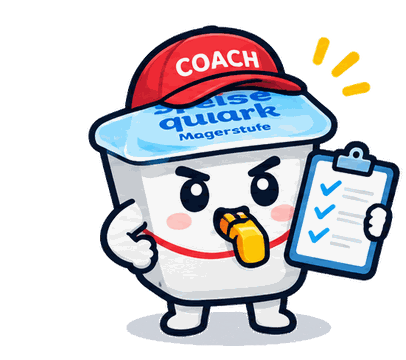
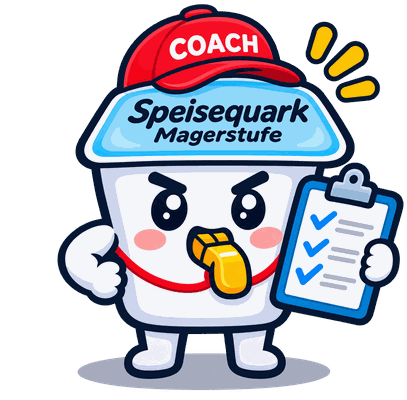
v266: Magerquark – neue Quarkbecher aus fünf Einzelvorlagen
Vorlagen (1254 px, transparent, ohne Markennamen) in app/design/quark-vorlagen,
Becher am Deckeltext ausgerichtet; Cache v6, damit die neuen Bilder sofort kommen.

Claude-Session: https://claude.ai/code/session_01TMv9R87UXoMUEZ67peoWfw

diff --git a/index.html b/index.html
@@ -820,11 +820,11 @@ button, select, input { touch-action: manipulation } body:not(.reporting) { touc
 [data-skin="quark"] .fmhead input:not([type="checkbox"]) { background: transparent }
 [data-skin="quark"] .cupboard { background: var(--qtint); border-color: #e0e8f7 }
 /* v265 (Konzept des Nutzers „Magerquark-Maskottchen“, Vorlage aus ChatGPT): je Reiter ein Quarkbecher über der Reiterleiste –
-   fertige Bilder maskottchen/quark-*.png (aus der Vorlage ausgeschnitten, Marken-Etikett entfernt; app/design/quark-maskottchen.py).
+   fertige Bilder maskottchen/quark-*.png (v266: aus fünf Einzelvorlagen app/design/quark-vorlagen/, ausgerichtet mit app/design/quark-maskottchen.py).
    Platz zwischen Glocke und Speicher-Hinweis; in der iPhone-App (KI-Knopf, .haski, Hinweis „gespeichert“ entfällt) mittig.
    Bei einem Speicher-Fehler tritt der Becher zurück, damit die Meldung lesbar bleibt. Einstellungen ohne Becher. */
 [data-skin="quark"] .top { position: relative; min-height: 84px }
-[data-skin="quark"] .top::after { content: ""; position: absolute; left: 100px; top: -12px; width: 122px; height: 108px; pointer-events: none;
+[data-skin="quark"] .top::after { content: ""; position: absolute; left: 100px; top: -12px; width: 110px; height: 108px; pointer-events: none;
   background: url("maskottchen/quark-home.png") no-repeat center / contain }
 [data-skin="quark"] .top.haski::after { left: 50%; transform: translateX(-50%) }
 [data-skin="quark"][data-tab="train"] .top::after { background-image: url("maskottchen/quark-train.png") }
@@ -1038,8 +1038,9 @@ body.ndragging, body.ndragging * { -webkit-user-select: none; user-select: none;
   /* Neuerungen: Bei jeder Änderung an der App APP_VERSION um 1 erhöhen und unten einen Eintrag mit dem
      betroffenen Reiter (train, prog, body, plan, data) ergänzen. Nach einem Update zeigt die App die neuen
      Einträge einmal an und markiert die Reiter bis zum nächsten Öffnen mit einem gelben Punkt. */
-  var APP_VERSION = 265; window.TL_VER = APP_VERSION;
+  var APP_VERSION = 266; window.TL_VER = APP_VERSION;
   var CHANGES = [
+    { v: 266, tab: "home", text: "Design „Magerquark“: Die Quarkbecher sind neu – größer gezeichnet, mit sauberen Konturen und richtig geschriebenem Deckel, in allen Reitern derselbe Becher an derselben Stelle." },
     { v: 265, tab: "home", text: "Design „Magerquark“: Je Reiter steht jetzt ein kleiner Quarkbecher über der Leiste – mit Shake, Reis und Brokkoli, beim Bizeps, mit Pokal, mit Maßband und als Coach." },
     { v: 264, tab: "home", text: "Design „Sky Blue“: Die Küken sind neu gezeichnet – rundlicher und knuffiger, mit großen glänzenden Augen, rosigen Wangen und weichen Schattierungen. In allen Reitern ist es jetzt dieselbe Figur, und sie ist etwas größer." },
     { v: 263, tab: "home", text: "Neues Design „Sky Blue“: ruhiges Hellblau, klare Schrift, blaue Diagramme – und je Reiter ein Küken: Shake mit Reis und Brokkoli, Bizeps, Pokal, Maßband und Coach mit Pfeife. Es ersetzt „Gym Kawaii“." },
@@ -2111,7 +2112,7 @@ body.ndragging, body.ndragging * { -webkit-user-select: none; user-select: none;
      (Start: alle 30 min, Rückkehr in die App: alle 5 min), erscheint der Hinweis #upd in der Mitte (seit v85). */
   /* Seit v100 (Fable-Prüfung): Update leert den Cache nicht mehr (sonst fehlten offline zxing/Körperkarte), sondern legt die neue
      index.html vorher in den Cache. Ohne Netz kein Neuladen, damit keine leere Seite entsteht. SWC muss zu CACHE in sw.js passen. */
-  var SWC = "trainingslog-v5", SWF = ["./", "./index.html", "./manifest.webmanifest", "./icon-192.png", "./icon-512.png", "./apple-touch-icon.png", "./inter.woff2", "./space-grotesk.woff2", "./zxing.min.js", "./koerperkarte.png", "./koerperkarte-licht.jpg", "./maskottchen/quark-home.png", "./maskottchen/quark-train.png", "./maskottchen/quark-prog.png", "./maskottchen/quark-body.png", "./maskottchen/quark-plan.png"];
+  var SWC = "trainingslog-v6", SWF = ["./", "./index.html", "./manifest.webmanifest", "./icon-192.png", "./icon-512.png", "./apple-touch-icon.png", "./inter.woff2", "./space-grotesk.woff2", "./zxing.min.js", "./koerperkarte.png", "./koerperkarte-licht.jpg", "./maskottchen/quark-home.png", "./maskottchen/quark-train.png", "./maskottchen/quark-prog.png", "./maskottchen/quark-body.png", "./maskottchen/quark-plan.png"];
   function cacheHeal() { /* fehlende Offline-Dateien nachladen (z. B. nach altem Update mit Cache-Leeren) */
     if (!window.caches || navigator.onLine === false || location.protocol === "file:" || !("serviceWorker" in navigator)) return;
     caches.open(SWC).then(function (c) { SWF.forEach(function (f) { c.match(f, { ignoreSearch: true }).then(function (h) { if (!h) c.add(f).catch(function () {}); }); }); }).catch(function () {});

diff --git a/sw.js b/sw.js
@@ -1,7 +1,7 @@
 /* Trainingslog – Service Worker: macht die App offline nutzbar.
    Antwortet aus dem Cache und holt im Hintergrund die neue Fassung. Anfragen mit dem Parameter „fresh“
    (Versionsprüfung der App) gehen direkt ans Netz. CACHE nur ändern, wenn sich FILES ändert – dann auch SWC/SWF in index.html anpassen (cacheHeal). */
-const CACHE = "trainingslog-v5";
+const CACHE = "trainingslog-v6";
 const FILES = [
   "./",
   "./index.html",

diff --git a/app/design/quark-maskottchen.py b/app/design/quark-maskottchen.py
@@ -1,95 +1,51 @@
-# Design „Magerquark“: fünf Quark-Maskottchen je Reiter (seit v265).
-# Quelle: Vorlage des Nutzers (aus ChatGPT, „Fünf Quark-Helden“, 2172 × 724 px, fünf Figuren nebeneinander mit Beschriftung).
-# Die Vorlage liegt NICHT im Repo – sie trägt den Markennamen eines Händlers. Dieses Skript schneidet die Figuren aus,
-# entfernt das rote Marken-Etikett auf dem Deckel und schreibt fünf gleich große PNGs mit transparentem Hintergrund:
-#   python3 app/design/quark-maskottchen.py <vorlage.png> maskottchen/
-# Ergebnis: maskottchen/quark-{home,train,prog,body,plan}.png (406 × 360 px, 256 Farben, je ~20–30 KB),
-# eingebunden in index.html über [data-skin="quark"] … .top::after, offline über sw.js (FILES) und SWF in index.html.
+# Design „Magerquark“: fünf Quark-Maskottchen je Reiter (seit v265, Vorlagen seit v266 einzeln).
+# Quelle: fünf Einzelbilder des Nutzers aus ChatGPT (1254 × 1254 px, transparent, ohne Markennamen) in
+# app/design/quark-vorlagen/{home,train,prog,body,plan}.png. Dieses Skript richtet die Becher aneinander aus
+# (Mitte und Unterkante des Deckeltexts „Speisequark Magerstufe“), schneidet alle fünf auf dieselbe Fläche zu und
+# schreibt kleine PNGs mit 256 Farben:
+#   python3 app/design/quark-maskottchen.py app/design/quark-vorlagen maskottchen
+# Ergebnis: maskottchen/quark-{home,train,prog,body,plan}.png, eingebunden in index.html über
+# [data-skin="quark"] … .top::after, offline über sw.js (FILES) und SWF in index.html, iPhone-App über app/copy-web.mjs.
 import sys
 import numpy as np
 from PIL import Image
 from scipy import ndimage as ndi
 
 NAMES = ["home", "train", "prog", "body", "plan"]
-BOUNDS = [455, 890, 1318, 1742]       # Trennlinien zwischen den Figuren (x in der Vorlage)
-LABEL_Y = 558                          # ab hier stehen die Beschriftungen
-OUT_H = 360
+OUT_H = 400          # Bildhöhe in px (Anzeige 108 px hoch → gut 3,5-fach für Retina)
+PAD = 12             # Rand um die gemeinsame Fläche (in Vorlagen-px)
 
-def cut(src):
-    H, W, _ = src.shape
-    mn, mx = src.min(axis=2), src.max(axis=2)
-    cand = (mn >= 185) & ((mx - mn) <= 28)                 # heller, ungesättigter Grund (inkl. Bodenschatten)
-    cand[LABEL_Y:] = True
-    R = 3
-    barrier = ndi.binary_dilation(mn < 150, structure=np.ones((2 * R + 1, 2 * R + 1)))   # Lücken in Konturen schließen
-    lab, _ = ndi.label(cand & ~barrier)
-    border = set(np.unique(np.concatenate([lab[0], lab[-1], lab[:, 0], lab[:, -1]]))) - {0}
-    bg = np.isin(lab, list(border))
-    bg = ndi.binary_dilation(bg, iterations=R + 1, mask=cand)
-    a = np.ones((H, W), np.float32)
-    ab = np.clip(1 - mn / 252.0, 0, 1); ab[ab < 0.035] = 0      # aus Weiß herausrechnen → weicher Schatten
-    a[bg] = ab[bg]
-    rgb = src.copy()
-    m = bg & (a > 0)
-    for c in range(3):
-        ch = rgb[..., c]; ch[m] = np.clip((ch[m] - (1 - a[m]) * 255) / a[m], 0, 255)
-    rgb[bg & (a == 0)] = 0
-    a[LABEL_Y:] = 0
-    fg = a > 0.02
-    lab2, n2 = ndi.label(fg, structure=np.ones((3, 3)))
-    fig = np.full((H, W), -1, np.int8)
-    for i, (cy, cx) in enumerate(ndi.center_of_mass(fg, lab2, range(1, n2 + 1)), 1):
-        fig[lab2 == i] = int(np.searchsorted(BOUNDS, cx))
-    return rgb, a, fig
+def anchor(a):
+    """Mitte (x) und Unterkante (y) des dunklen Deckeltexts – bei allen fünf Bechern gleich groß."""
+    r, g, b, al = a[..., 0], a[..., 1], a[..., 2], a[..., 3]
+    lid = (b > 220) & (r < 190) & (g > 170) & (al > 200)
+    lb, k = ndi.label(lid)
+    big = lb == (np.argmax(ndi.sum(lid, lb, range(1, k + 1))) + 1)
+    txt = ndi.binary_fill_holes(big) & ~big & (r < 90) & (g < 90) & (b < 130)
+    ty, tx = np.where(txt)
+    return (tx.min() + tx.max()) / 2, ty.max(), tx.max() - tx.min()
 
-def remove_label(rgb, fig):
-    """Rotes Marken-Etikett oben auf dem Deckel durch die Deckelfarbe daneben ersetzen (Plan: von der Kappe verdeckt)."""
-    img = np.clip(rgb, 0, 255).astype(np.uint8)
-    out = img.astype(np.float32).copy()
-    r, g, b = rgb[..., 0], rgb[..., 1], rgb[..., 2]
-    red = (r > 160) & (g < 90) & (b < 90) & (np.arange(rgb.shape[0])[:, None] < 220)
-    for k in range(4):
-        m = red & (fig == k)
-        lb, n = ndi.label(ndi.binary_dilation(m, iterations=3))
-        big = np.argmax(ndi.sum(m, lb, range(1, n + 1))) + 1
-        ys, xs = np.where(m & (lb == big))
-        Y0, Y1, X0, X1 = ys.min() - 3, ys.max() + 4, xs.min() - 4, xs.max() + 5
-        for y in range(Y0, Y1):
-            L = np.median(img[y, X0 - 10:X0 - 3], axis=0); Rr = np.median(img[y, X1 + 3:X1 + 10], axis=0)
-            t = np.linspace(0, 1, X1 - X0)[:, None]
-            out[y, X0:X1] = L * (1 - t) + Rr * t
-        blk = np.stack([ndi.gaussian_filter(out[..., c], 1.6) for c in range(3)], axis=-1)
-        out[Y0:Y1, X0:X1] = blk[Y0:Y1, X0:X1]
-    return np.clip(out, 0, 255)
-
-def export(rgb, a, fig, outdir):
-    H, W = a.shape
-    r, g, b = rgb[..., 0], rgb[..., 1], rgb[..., 2]
-    yy = np.arange(H)[:, None]
-    lid = (b > 225) & (r < 205) & (r > 120) & (g > 175) & (yy > 120) & (yy < 250)
-    info = []
-    for k in range(5):
-        ys, xs = np.where(fig == k)
-        lb, n = ndi.label(lid & (fig == k))
-        big = np.argmax(ndi.sum(lid & (fig == k), lb, range(1, n + 1))) + 1
-        lx = np.where(lb == big)[1]
-        info.append(((lx.min() + lx.max()) // 2, xs.min(), xs.max()))    # Becher immer an derselben Stelle
-    L = max(c - x0 for c, x0, x1 in info) + 6; R = max(x1 - c for c, x0, x1 in info) + 6
-    Y0, Y1 = 68, 556
-    CW, CH = L + R, Y1 - Y0
-    for k, (c, x0, x1) in enumerate(info):
-        rgba = np.zeros((H, W, 4), np.uint8)
-        rgba[..., :3] = rgb.astype(np.uint8); rgba[..., 3] = (a * (fig == k) * 255).astype(np.uint8)
+def main(src, out):
+    imgs = [np.array(Image.open(f"{src}/{n}.png").convert("RGBA")) for n in NAMES]
+    anc = [anchor(a.astype(int)) for a in imgs]
+    for n, (cx, by, w) in zip(NAMES, anc):
+        print(f"{n}: Textmitte x {cx:.0f}, Unterkante y {by}, Breite {w}")
+    # Ausdehnung jeder Figur relativ zum Anker → gemeinsame Fläche
+    ext = []
+    for a, (cx, by, w) in zip(imgs, anc):
+        ys, xs = np.where(a[..., 3] > 8)
+        ext.append((cx - xs.min(), xs.max() - cx, by - ys.min(), ys.max() - by))
+    L = max(e[0] for e in ext) + PAD; R = max(e[1] for e in ext) + PAD
+    T = max(e[2] for e in ext) + PAD; B = max(e[3] for e in ext) + PAD
+    CW, CH = int(round(L + R)), int(round(T + B))
+    for n, a, (cx, by, w) in zip(NAMES, imgs, anc):
         can = Image.new("RGBA", (CW, CH), (0, 0, 0, 0))
-        left = max(0, c - L)
-        can.paste(Image.fromarray(rgba[Y0:Y1, left:c + R], "RGBA"), (L - (c - left), 0))
+        can.paste(Image.fromarray(a, "RGBA"), (int(round(L - cx)), int(round(T - by))))
         im = can.convert("RGBa").resize((round(CW * OUT_H / CH), OUT_H), Image.LANCZOS).convert("RGBA")
-        im.quantize(colors=256, method=Image.Quantize.FASTOCTREE, dither=Image.Dither.NONE).save(f"{outdir}/quark-{NAMES[k]}.png", optimize=True)
+        im.quantize(colors=256, method=Image.Quantize.FASTOCTREE, dither=Image.Dither.NONE).save(f"{out}/quark-{n}.png", optimize=True)
+    print(f"Fläche {CW} × {CH} → {round(CW * OUT_H / CH)} × {OUT_H} px")
 
 if __name__ == "__main__":
     if len(sys.argv) != 3:
-        sys.exit("Aufruf: python3 app/design/quark-maskottchen.py <vorlage.png> maskottchen/")
-    src = np.array(Image.open(sys.argv[1]).convert("RGB")).astype(np.float32)
-    rgb, a, fig = cut(src)
-    rgb = remove_label(rgb, fig)
-    export(rgb, a, fig, sys.argv[2].rstrip("/"))
+        sys.exit("Aufruf: python3 app/design/quark-maskottchen.py app/design/quark-vorlagen maskottchen")
+    main(sys.argv[1], sys.argv[2].rstrip("/"))

diff --git a/VERLAUF.md b/VERLAUF.md
@@ -291,3 +291,4 @@ Repo ist öffentlich: hier nur technische Entscheidungen, keine persönlichen Da
 - v263 (Konzept des Nutzers „Sky Blue & Gym Chicks“, Antworten „1A, Kawaii ersetzen, Rest wie Claude meint“): Design `data-skin="sky"` (hell, in `SKINS` mit "light") ersetzt „Gym Kawaii“; gespeichertes "kawaii" wird im Kopf-Skript zu "sky". Farben nach Konzept (#f4f8fc, #fff, Primärblau #1272c2 statt #1683d8 für Kontrast mit weißer Schrift, #e7f2fc, Überschriften #19324b, Text #263746, #68798a, #dce6f0), Überschriften in Inter. Je Reiter eine selbst gezeichnete Küken-Szene (`app/design/sky-gen.py`): Ernährung Shake mit Gesicht + Reisschüssel + Brokkoli mit Bizeps, Training Bizeps-Pose, Fortschritt Pokal + Wachstumskurve, Körper gelbes Maßband, Plan Coach-Cap/Pfeife/Klemmbrett; keine Figur im Zahnradmenü und keine großen Figuren im Inhalt. Diagramme: Phasenfarben in `.chart`/`.wchart` hellblau (Korridore), Gitter grau; Tabellen ruhige Linien. `kueken-gen.py` entfernt.
 - v264 (Nutzer: Küken sehen aus wie flache Vektor-Cliparts, gewünscht hochwertiger Kawaii-/Chibi-Stil, alle fünf als dieselbe Figur; danach „du darfst die ruhig etwas größer machen“): Sky-Blue-Maskottchen neu gezeichnet – eine Figur (Mochi-Körper, Verläufe statt flacher Farben, warmbraune Kontur #7a4a2e, große Augen mit Lichtpunkten, verlaufende Wangen, kleine Flügel/Füße) in fünf Posen, Gegenstände mit Gesicht und Interaktion. `.top::after` 196×80 → 220×108 px, `[data-skin="sky"] .top` min-height 58 → 84 px (Einstellungen bleibt 58, dort kein Küken). Generator `app/design/sky-gen.py` neu geschrieben, schreibt mit `--apply index.html` die fünf Bilder in die CSS-Regeln (nur benutzte Verläufe, Zahlen gerundet, ohne Zeilenumbrüche), `--preview` für eine Vorschau. Sonst keine Designänderung.
 - v265 (Konzept des Nutzers „Magerquark-Maskottchen“ mit fertiger Vorlage aus ChatGPT, „Verwende die fertigen Bilddateien direkt“): Design `data-skin="quark"` bekommt je Reiter einen Quarkbecher über der Reiterleiste. Bilder `maskottchen/quark-{home,train,prog,body,plan}.png` (406×360 px, 256 Farben, je 20–28 KB, transparent, Becher in allen fünf an derselben Stelle) mit `app/design/quark-maskottchen.py` aus der Vorlage ausgeschnitten (Grund per Flutfüllung mit geschlossenen Konturlücken, Bodenschatten halbtransparent aus Weiß herausgerechnet); rotes Marken-Etikett auf dem Deckel durch Deckelfarbe ersetzt (Vorlage wegen Markenname nicht im Repo). CSS: `[data-skin="quark"] .top` min-height 84 px, `.top::after` 122×108 px, links 100 px (zwischen Glocke und Speicher-Hinweis), mit KI-Knopf (`.haski`) mittig, ≤ 380 px kleiner; ausgeblendet bei `.sync.err` (`:has`) und in den Einstellungen. Offline: Bilder in `sw.js` FILES (CACHE v4 → v5), `SWC`/`SWF` in index.html, `app/copy-web.mjs` (Ordner `www/maskottchen`).
+- v266 (neue Vorlagen des Nutzers aus ChatGPT, fünf Einzelbilder 1254 × 1254 px, transparent, ohne Markennamen, nach Claudes Vorgaben): Quark-Maskottchen ersetzt. Vorlagen in `app/design/quark-vorlagen/{home,train,prog,body,plan}.png`; `app/design/quark-maskottchen.py` neu: richtet die Becher an Mitte und Unterkante des Deckeltexts aus, gemeinsame Fläche, 407 × 400 px, 256 Farben (je 20–28 KB). `.top::after` Breite 122 → 110 px. Dateinamen gleich, daher `CACHE`/`SWC` v5 → v6, damit keine alten Bilder aus dem Cache kommen.

diff --git a/AGENTS.md b/AGENTS.md
@@ -2,7 +2,7 @@
 
 Diese Datei ist der gemeinsame Stand für alle KI-Assistenten, die an diesem Repo arbeiten (Claude, ChatGPT/Codex). **Zuerst lesen, bei jeder Änderung mitpflegen.** Kurz halten: nur der aktuelle Stand, keine Geschichte (die steht in `VERLAUF.md`). Das Repo ist öffentlich – hier nichts Persönliches eintragen.
 
-**Stand:** v265 (22.11.2026)
+**Stand:** v266 (22.11.2026)
 
 ## Vor jeder Arbeit
 1. `git pull` und `git log --oneline -15`: Hat der andere Assistent seit dem letzten Mal etwas geändert? Dann diese Änderungen zuerst durchsehen und Auffälligkeiten dem Besitzer melden, nicht ungefragt im fremden Bereich umbauen.
@@ -54,7 +54,7 @@ Diese Datei ist der gemeinsame Stand für alle KI-Assistenten, die an diesem Rep
   - **Plan:** Sätze pro Muskelgruppe, Trainingstage, Plan teilen/Plan-Code, Assistent, Übungskatalog.
 - **Zahnrad:** Design, Hell/Dunkel, Farbenblind, Haptik, Trainingsart; Daten & Hilfe (Sicherung, Export, Bericht, Profile, Hilfe, Was ist neu?).
 - **Modi:** Kraft, Ausdauer (ohne Plan), beides, „Nur Ernährung“ (nur Ernährung und Körper) – `TABS_FOOD`/`TABS_CARDIO`.
-- **Designs:** Standard, Magerquark (`data-skin="quark"`, hell; seit v265 je Reiter ein Quarkbecher als fertiges Bild `maskottchen/quark-*.png`, erzeugt mit `app/design/quark-maskottchen.py` aus der Vorlage des Besitzers), Hähnchen, Reis & Brokkoli (`data-skin="huhn"`, hell, seit v259), Sky Blue (`data-skin="sky"`, hell, seit v263, ersetzt „Gym Kawaii“; je Reiter ein Küken über `html[data-tab]`, seit v264 eine Figur im Kawaii-/Chibi-Stil in fünf Posen, 220×108 px; Bilder nur über `python3 app/design/sky-gen.py --apply index.html` ändern, nicht von Hand; Dunkelmodus später), Aurora, Diät (`data-look="hell"`), Aufbau (`data-look="winter"`). Designs mit eigenem `data-skin` stehen in `SKINS` (Wert = erzwungenes Hell/Dunkel oder "" = folgt der Einstellung); interne Kennungen nicht umbenennen (Merker beim Nutzer).
+- **Designs:** Standard, Magerquark (`data-skin="quark"`, hell; seit v265 je Reiter ein Quarkbecher als fertiges Bild `maskottchen/quark-*.png`, erzeugt mit `app/design/quark-maskottchen.py` aus den Einzelvorlagen in `app/design/quark-vorlagen/`; bei geänderten Bildern `CACHE` in `sw.js` und `SWC` hochzählen), Hähnchen, Reis & Brokkoli (`data-skin="huhn"`, hell, seit v259), Sky Blue (`data-skin="sky"`, hell, seit v263, ersetzt „Gym Kawaii“; je Reiter ein Küken über `html[data-tab]`, seit v264 eine Figur im Kawaii-/Chibi-Stil in fünf Posen, 220×108 px; Bilder nur über `python3 app/design/sky-gen.py --apply index.html` ändern, nicht von Hand; Dunkelmodus später), Aurora, Diät (`data-look="hell"`), Aufbau (`data-look="winter"`). Designs mit eigenem `data-skin` stehen in `SKINS` (Wert = erzwungenes Hell/Dunkel oder "" = folgt der Einstellung); interne Kennungen nicht umbenennen (Merker beim Nutzer).
 - **Rundgang** (`TOUR`): Willkommen → Ernährung → Training → Fortschritt → Körper → Plan → Zahnrad → Einstellungen.
 
 ## Offen
